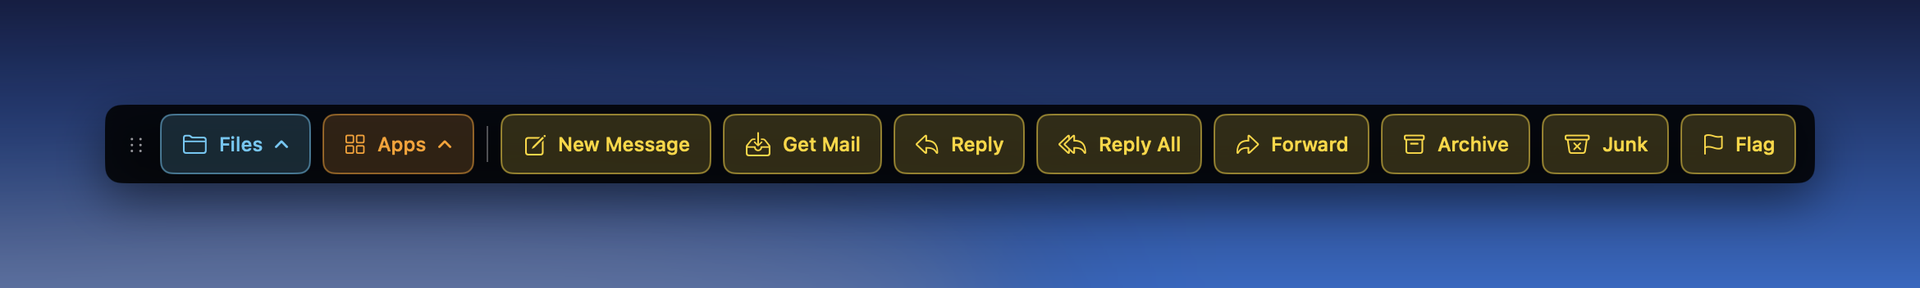
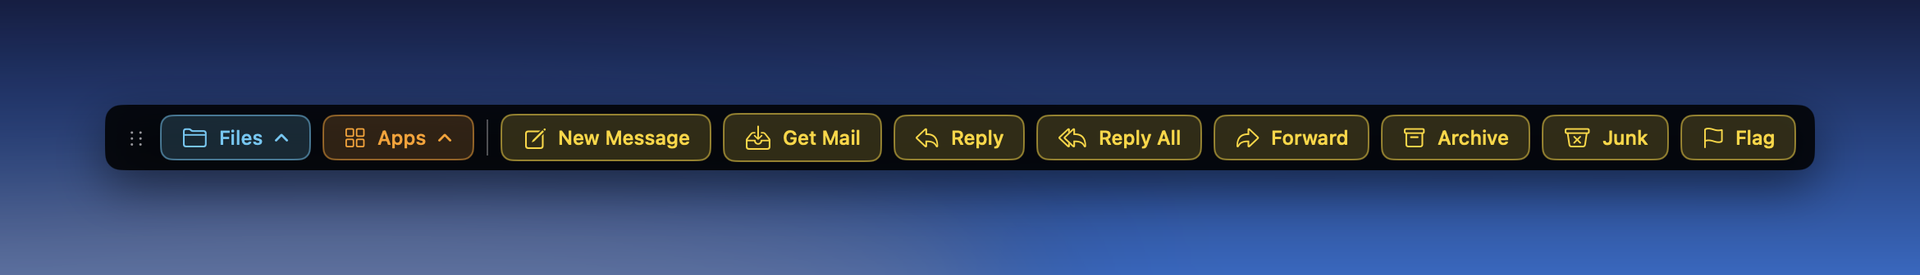
Hold BarDeck 1.2 page changes back: restore bardeck/ to the live version (1.2 not released)

diff --git a/bardeck/index.html b/bardeck/index.html
@@ -62,7 +62,7 @@
 </div>
 
 <figure class="shot">
-  <img src="img/1-the-bar.png" alt="The BarDeck button bar: Files, Apps, Projects, Focus, apple.com and Screenshot buttons in colour-coded groups" width="1360" height="278">
+  <img src="img/1-the-bar.png" alt="The BarDeck button bar: Files, Apps, Projects, Focus, apple.com and Screenshot buttons in colour-coded groups" width="1360" height="265">
 </figure>
 
 <div class="cta">
@@ -86,9 +86,6 @@
   <li><strong>Ready-made sets.</strong> One click adds a set for Mail, Safari, Finder, Terminal, Messages, Photos, Excel, Word, Zoom, Teams, Final Cut Pro or Music, and one click removes it again.</li>
   <li><strong>Easy to arrange.</strong> Drag buttons to reorder them, drag them into and out of stacks, and drop an app, folder, file or web link on the bar to make a button. Drop a file on an app button to open it with that app.</li>
   <li><strong>Touch Bar-style controls.</strong> Add a volume slider, a brightness slider, play/pause, next and previous track, mute, buttons for Music and Spotify, and an emoji picker, each in one click from the right-click menu.</li>
-  <li><strong>Now Playing.</strong> A button that shows the track, artist and cover art from Apple Music, Spotify, Qobuz or a Sonos speaker on your network, and plays or pauses with a tap.</li>
-  <li><strong>Stock prices.</strong> A button for any share or index, with the day&#8217;s change and a small chart. Quotes are delayed, and a tap opens the stock in Yahoo Finance.</li>
-  <li><strong>Compact or Normal.</strong> Every button shares one height, and you can switch the whole bar to a larger Normal size from the right-click menu.</li>
   <li><strong>Share a setup.</strong> Export your whole layout, or just one stack or one app's set, and import other people's. Your licence is never included, and you can remove personal details before sharing.</li>
   <li><strong>Stays out of the way.</strong> Auto-hide, a hotkey to show and hide it, a menu bar icon, and it remembers where you put it.</li>
   <li><strong>Safe to experiment.</strong> Undo your last changes, lock buttons so they cannot be moved or removed, and automatic backups you can restore from.</li>
@@ -97,33 +94,23 @@
 <h2>See it</h2>
 
 <figure class="shot">
-  <img src="img/2-stack.png" alt="A stack opening above the bar to show Downloads, Documents, Desktop and New Folder" loading="lazy" width="1360" height="566">
+  <img src="img/2-stack.png" alt="A stack opening above the bar to show Downloads, Documents, Desktop and New Folder" loading="lazy" width="1360" height="498">
   <figcaption>A stack flies out above the bar (or below it, if you keep the bar at the top of the screen).</figcaption>
 </figure>
 
 <figure class="shot">
-  <img src="img/3-browse-folder.png" alt="A folder button showing the folders and files inside it, with their icons" loading="lazy" width="1360" height="964">
+  <img src="img/3-browse-folder.png" alt="A folder button showing the folders and files inside it, with their icons" loading="lazy" width="1360" height="823">
   <figcaption>A folder button lets you browse inside it, step into sub-folders, or open the folder in Finder.</figcaption>
 </figure>
 
 <figure class="shot wide">
-  <img src="img/4-per-app-mail.png" alt="After a divider, a set of Mail buttons: New Message, Get Mail, Reply, Reply All, Forward, Archive, Junk and Flag" loading="lazy" width="1920" height="288">
+  <img src="img/4-per-app-mail.png" alt="After a divider, a set of Mail buttons: New Message, Get Mail, Reply, Reply All, Forward, Archive, Junk and Flag" loading="lazy" width="1920" height="275">
   <figcaption>Buttons that follow the app you are using. With Mail in front, its own set appears after the divider.</figcaption>
 </figure>
 
 <figure class="shot wide">
-  <img src="img/6-controls.png" alt="The bar with a volume slider, a brightness slider, a play/pause button and an emoji picker" loading="lazy" width="1700" height="312">
+  <img src="img/6-controls.png" alt="The bar with a volume slider, a brightness slider, a play/pause button and an emoji picker" loading="lazy" width="1700" height="298">
   <figcaption>Touch Bar-style controls: volume and brightness sliders, media buttons and an emoji picker.</figcaption>
-</figure>
-
-<figure class="shot wide">
-  <img src="img/11-now-playing.png" alt="Three Now Playing buttons showing a track, artist and cover art for Apple Music, a Sonos speaker and Qobuz" loading="lazy" width="1882" height="352">
-  <figcaption>Now Playing buttons show what is playing, with cover art, for Apple Music, Spotify, Qobuz and Sonos. Tap to play or pause.</figcaption>
-</figure>
-
-<figure class="shot wide">
-  <img src="img/12-stocks.png" alt="Four stock buttons with prices, daily change and a small chart: Apple, FTSE 100, S&amp;P 500 and BP" loading="lazy" width="1752" height="352">
-  <figcaption>Stock buttons show a delayed price, the day&#8217;s change and a small chart for any share or index.</figcaption>
 </figure>
 
 <figure class="shot">
@@ -138,9 +125,7 @@
 <p>BarDeck asks only when you use a feature that needs it, and everything else works without them.</p>
 <ul>
   <li><strong>Accessibility</strong>, for the <em>press keys</em> and <em>paste text</em> buttons, which work by sending keystrokes to the app in front.</li>
-  <li><strong>Automation</strong>, for the <em>New Folder</em> button, which asks Finder to create a folder in the window you have open, and for the Apple Music and Spotify buttons, which ask to read and control those apps.</li>
-  <li><strong>Accessibility</strong> is also used by the Qobuz Now Playing button, which reads the track shown in the Qobuz window.</li>
-  <li><strong>Local network</strong>, for the Sonos Now Playing button, which looks for speakers on your network. Stock buttons ask Yahoo Finance for delayed quotes over the internet.</li>
+  <li><strong>Automation</strong>, for the <em>New Folder</em> button, which asks Finder to create a folder in the window you have open.</li>
 </ul>
 
 <h2>Private by design</h2>
